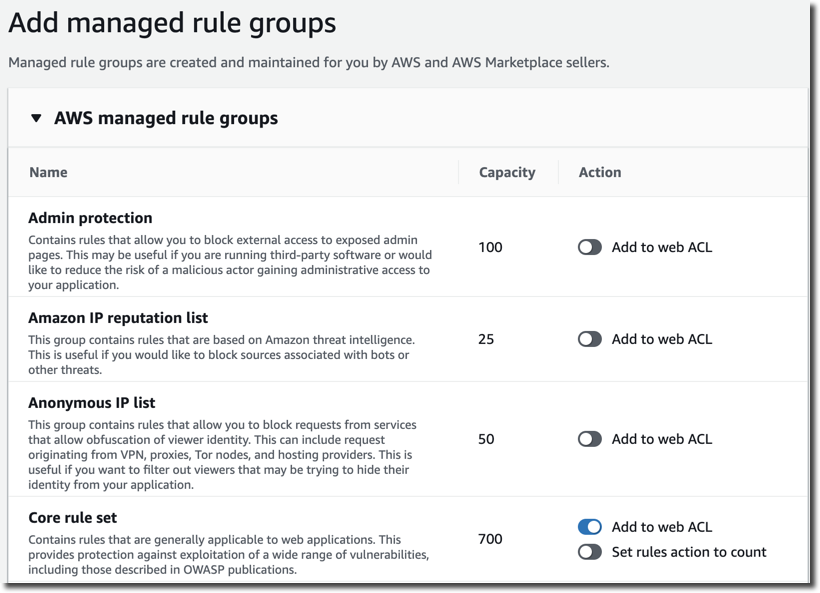
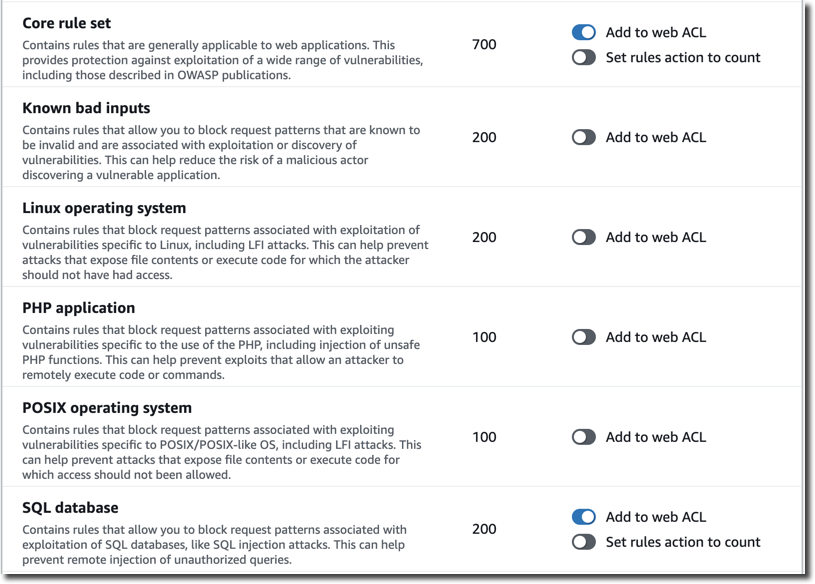
Add managed rules exercise

diff --git a/docs/workshop/perimeter-layer/remediate.md b/docs/workshop/perimeter-layer/remediate.md
@@ -494,6 +494,26 @@ Reputation lists can also be maintained by third parties. The AWS WAF Security A
         1.	uri_path, starts with, no transform, _/phpmyadmin_
     3.	Use the concepts you learned in the previous exercises to add the _filterNoPath_ statement to your Web ACL.
 
+### 7. Deploy Managed Rules for AWS WAF (Optional)
+
+<a href="https://docs.aws.amazon.com/waf/latest/developerguide/aws-managed-rule-groups-list.html#aws-managed-rule-groups-baseline" target="_blank">AWS Managed Rules</a> for AWS WAF is a managed service that provides protection against common application vulnerabilities or other unwanted traffic, without having to write your own rules. Managed rules are also available through the <a href="https://console.aws.amazon.com/wafv2/homev2/marketplace" target="_blank">AWS Marketplace</a>.
+
+Remove the custom rules created in exercises 1 and 2 above (SQL injection, cross site scripting and traversal) and replace them with AWS Managed Rules.
+
+??? info "Solution"
+    1.  edit the Web ACL
+        1. Delete the **matchSQLi**, **matchXSS** and **matchTraversal** rules you created in exercises 1 and 2.
+        2. Delete the **matchXSS** rule
+        3. Delete the **matchTraversal**
+        4. Re-run the WAF test script (runscanner) from your red team host to confirm which requests are blocked
+    2.  Add Core and SQL database managed rules to web ACL
+        1. In the Web ACL click **Add rules**, **Add managed rule groups**
+        2. Click **AWS managed rule groups**
+        3. Click **Core rule set** and **SQL database** then click **Add to web ACL**
+        ![WAF Mgd Rules](./images/waf-managed-rules.png)
+    3. Click on **Add Rule** and then click **Save**
+    4. Re-run the WAF test script (runscanner) from your red team host to confirm which requests are blocked.
+
 ---
 
 You can now proceed to the [Verify Phase](verify.md).
